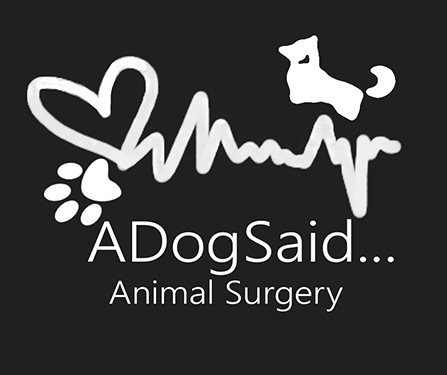
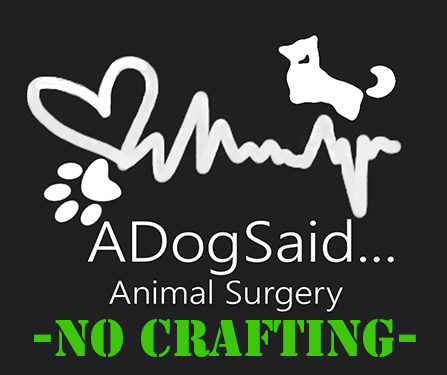
a15 no crafting version

Changed region(s): [[0.0582, 0.8507, 0.9306, 0.968]]

diff --git a/README.md b/README.md
@@ -6,6 +6,7 @@
 Adds basic animal surgeries and bionics to Rimworld
 
 This mod is *fully compatible* with **Expanded Prosthetics and Organ Engineering**
+This is the version without crafting.
 
 Following parts are added to the game:
 
@@ -21,7 +22,6 @@ Following parts are added to the game:
 * simple prosthetic/bionic animal legs. Fits all animals.
 
 All parts can be obtained from traders, except peglegs.
-All parts can be crafted at the machining table. Crafting requires a skill of 5-12, depending on part.
 
 Simple parts are slightly lower in efficiency than natural parts. Bionic parts are higher.
 
